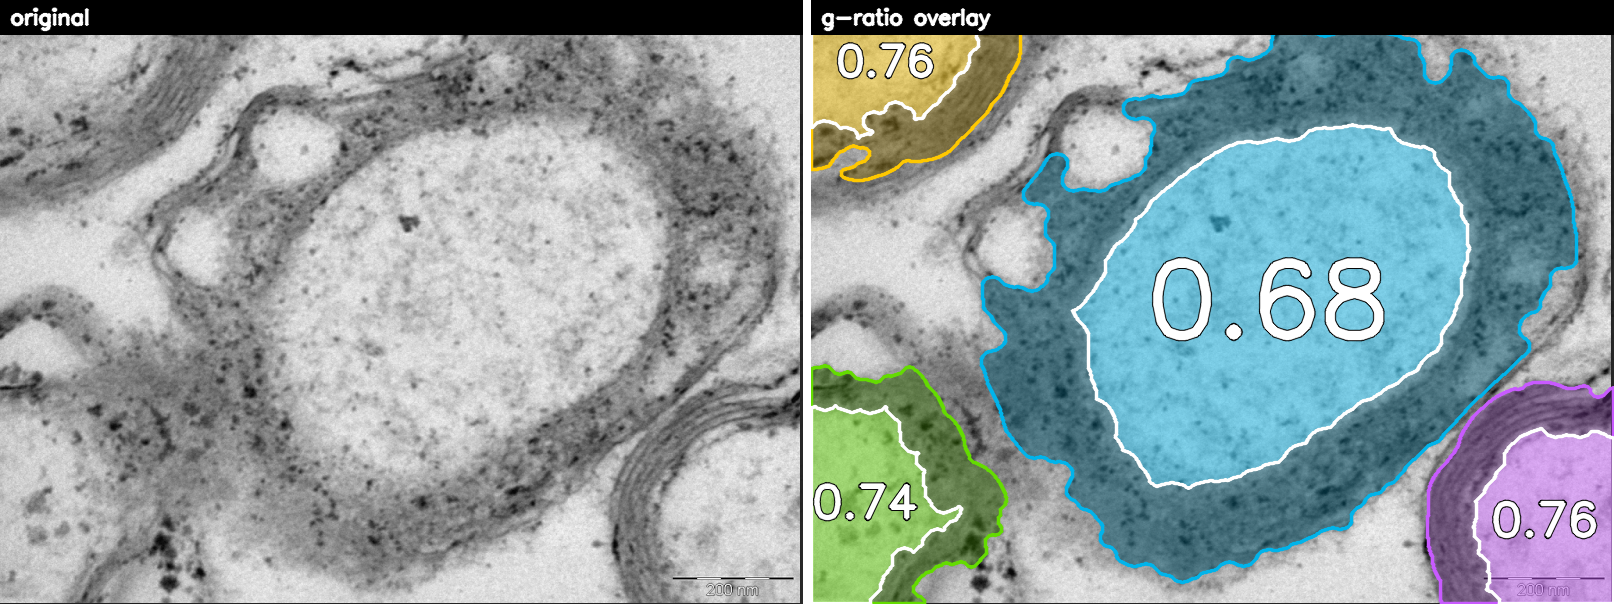
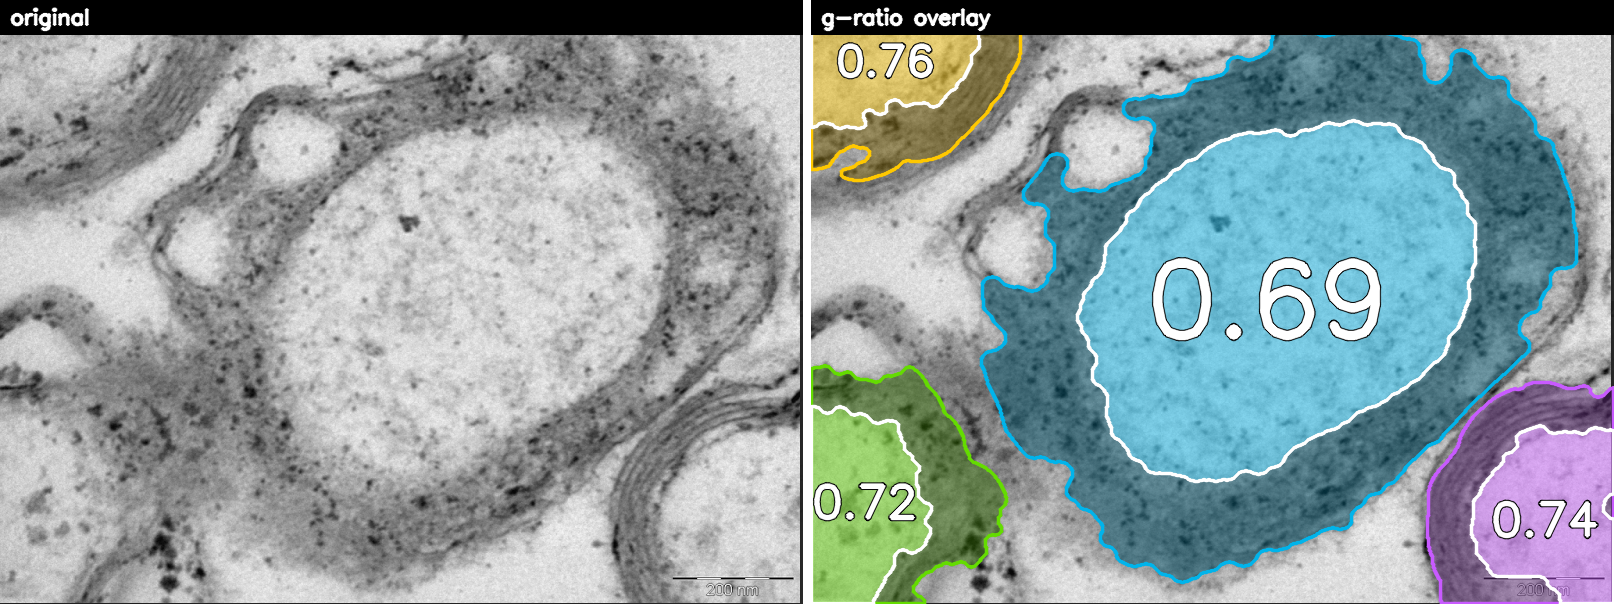
Refine axon border with per-fibre Otsu peel (axon-only accuracy)
Replace the uniform axon shrink with a local, adaptive boundary: within each
fibre, Otsu-split bright axoplasm vs dark myelin, peel the dark band inward from
the fibre's outer edge (interior organelles re-filled), keep the bright core.
This follows the real inner-myelin edge instead of a fixed erosion, fixing the
directional offset the shrink could not.

Also refine the bubble rule: a bright gap is a vacuole only if it is interior,
not the thin periaxonal ring hugging the axon (which is myelin) -- otherwise the
now-tight axon would expose that ring and lose it from myelin.

Results vs ground truth (recall/precision still 1.0 on all 3):
  mean axon IoU  0.90 -> 0.93   (sample_02 0.90 -> 0.96)
  mean myelin IoU 0.71 -> 0.735
  sample_02 g-ratio 0.69 -> 0.67 (~0.70 traced)

Replaces axon_shrink_frac with axon_otsu_bias=10. Only cv2/scipy.

Claude-Session: https://claude.ai/code/session_01APbuiGGpr8t768VjCngFXw

diff --git a/gratio/pipeline.py b/gratio/pipeline.py
@@ -70,10 +70,10 @@ DEFAULTS = dict(
     myelin_band=0.5,          # myelin thickness cap as a fraction of axon radius
     smooth_frac=0.15,         # border smoothing kernel as a fraction of axon radius
     smooth_max_px=21,         # ...capped to this absolute size (avoid distorting big axons)
-    axon_shrink_frac=0.06,    # pull the axon border in by this fraction of the axon radius: the body
-                              # grows out to the innermost dark lamella, ~one lamella past the true
-                              # axolemma, so this corrects that systematic outward bias (the freed
-                              # ring becomes myelin). Calibrated against the hand masks.
+    axon_otsu_bias=10,        # the axon border is refined per fibre: Otsu-split the fibre into bright
+                              # axoplasm vs dark myelin, peel the dark band inward from the fibre edge,
+                              # and keep the bright core. This bias nudges the split darker so the border
+                              # sits at the axolemma. Calibrated against the hand masks.
     bubble_min_frac=0.02,     # a hole counts as a bubble if >= this fraction of the axon
     bubble_min_px=250,        # ...and at least this many pixels
 )
@@ -105,6 +105,36 @@ def _smooth(mask, k):
     m = cv2.morphologyEx(mask.astype(np.uint8), cv2.MORPH_CLOSE, el)
     m = cv2.morphologyEx(m, cv2.MORPH_OPEN, el)
     return binary_fill_holes(m > 0)
+
+
+def _peel_axon(gf, fiber, cx, cy, bias, k):
+    """Refine the axon within a fibre by peeling the dark myelin band inward.
+
+    Otsu-split the fibre's intensities into bright axoplasm vs dark myelin, take
+    the dark material connected to the fibre's outer boundary as the myelin band,
+    and keep the bright core (interior organelles are re-filled). This tracks the
+    real inner-myelin edge locally, instead of a fixed erosion of the body.
+    """
+    F = fiber
+    if F.sum() < 25:
+        return F
+    t, _ = cv2.threshold(gf[F].astype(np.uint8), 0, 255,
+                         cv2.THRESH_BINARY | cv2.THRESH_OTSU)
+    dark = (gf < t + bias) & F
+    dl, _ = cc_label(dark)
+    border = F & ~cv2.erode(F.astype(np.uint8), np.ones((3, 3), np.uint8)).astype(bool)
+    blab = np.unique(dl[border])
+    band = np.isin(dl, blab[blab > 0])
+    core = binary_fill_holes(F & ~band)
+    cl, _ = cc_label(core)
+    cyi, cxi = int(round(cy)), int(round(cx))
+    sid = cl[cyi, cxi] if 0 <= cyi < cl.shape[0] and 0 <= cxi < cl.shape[1] else 0
+    if sid == 0:
+        sizes = np.bincount(cl.ravel())
+        sizes[0] = 0
+        sid = int(sizes.argmax()) if sizes.max() > 0 else 0
+    axon = binary_fill_holes(cl == sid) if sid > 0 else core
+    return _smooth(axon, k) & F
 
 
 def segment(gray: np.ndarray, **overrides) -> dict:
@@ -210,27 +240,22 @@ def segment(gray: np.ndarray, **overrides) -> dict:
         terr = (nearest == a['id']) | (nearest == 0)   # Voronoi territory (split touching fibers)
         k = min(a['r'] * P['smooth_frac'], P['smooth_max_px'])
         fm = _smooth(binary_fill_holes(a['body'] | (assigned == a['id'])) & terr, k)
-        am = _smooth(a['body'] & terr, k) & fm
+        # refine the axon border to the real inner-myelin edge (per-fibre Otsu peel)
+        am = _peel_axon(gf, fm, a['cx'], a['cy'], P['axon_otsu_bias'], k)
         annulus = fm & ~am
         holes = annulus & ~myelin_mat
         hl, nh = cc_label(holes)
         gap = np.zeros((H, W), bool)
         bmin = max(P['bubble_min_px'], P['bubble_min_frac'] * am.sum())
+        # a bright gap is a bubble only if it is an *interior* vacuole; the thin
+        # bright periaxonal ring hugging the axon is myelin, not a bubble.
+        axon_ring = cv2.dilate(am.astype(np.uint8),
+                               np.ones((5, 5), np.uint8)).astype(bool) & ~am
         for h in range(1, nh + 1):
             hm = hl == h
-            if hm.sum() >= bmin:
+            if hm.sum() >= bmin and not (hm & axon_ring).any():
                 gap |= hm
         myel_here = annulus & ~gap
-        # correct the systematic outward bias: the body stops at the innermost dark
-        # lamella, ~one lamella past the axolemma. Pull the border in and hand the
-        # freed periaxonal ring to myelin (it is done AFTER bubble detection so the
-        # light inner ring is not mistaken for a vacuole).
-        ks = int(round(2 * P['axon_shrink_frac'] * a['r'])) | 1
-        if P['axon_shrink_frac'] > 0 and ks >= 3:
-            am_in = cv2.erode(am.astype(np.uint8),
-                              cv2.getStructuringElement(cv2.MORPH_ELLIPSE, (ks, ks))).astype(bool)
-            myel_here = myel_here | (am & ~am_in)
-            am = am_in
         A_ax, A_my = int(am.sum()), int(myel_here.sum())
         g = float(np.sqrt(A_ax / (A_ax + A_my))) if A_ax + A_my > 0 else float('nan')
         axon_mask[am] = a['id']
